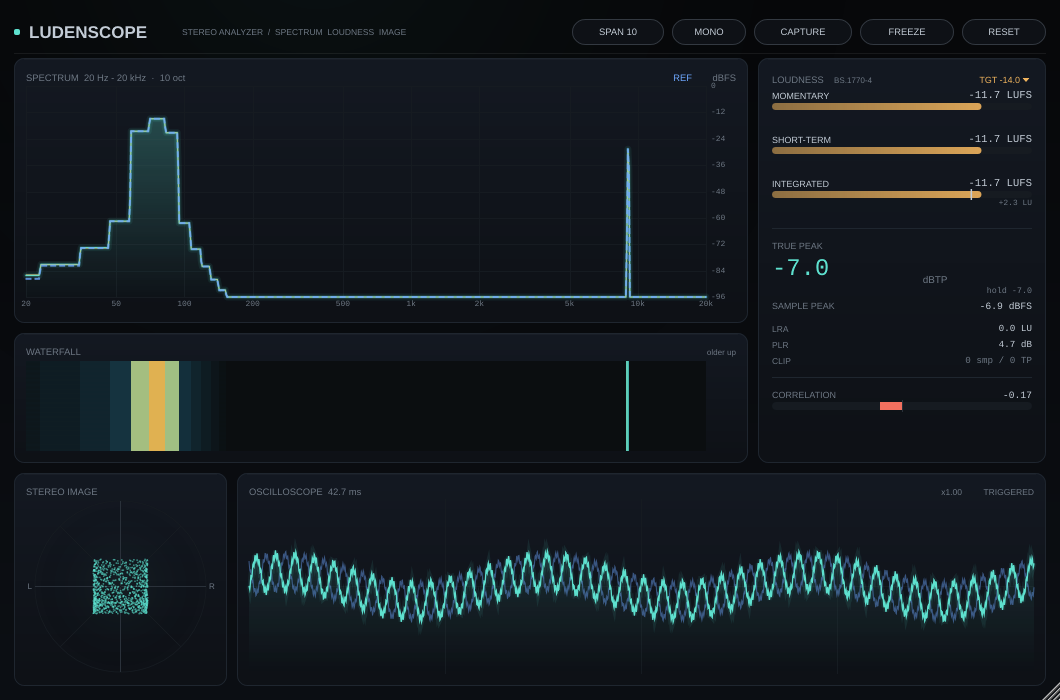
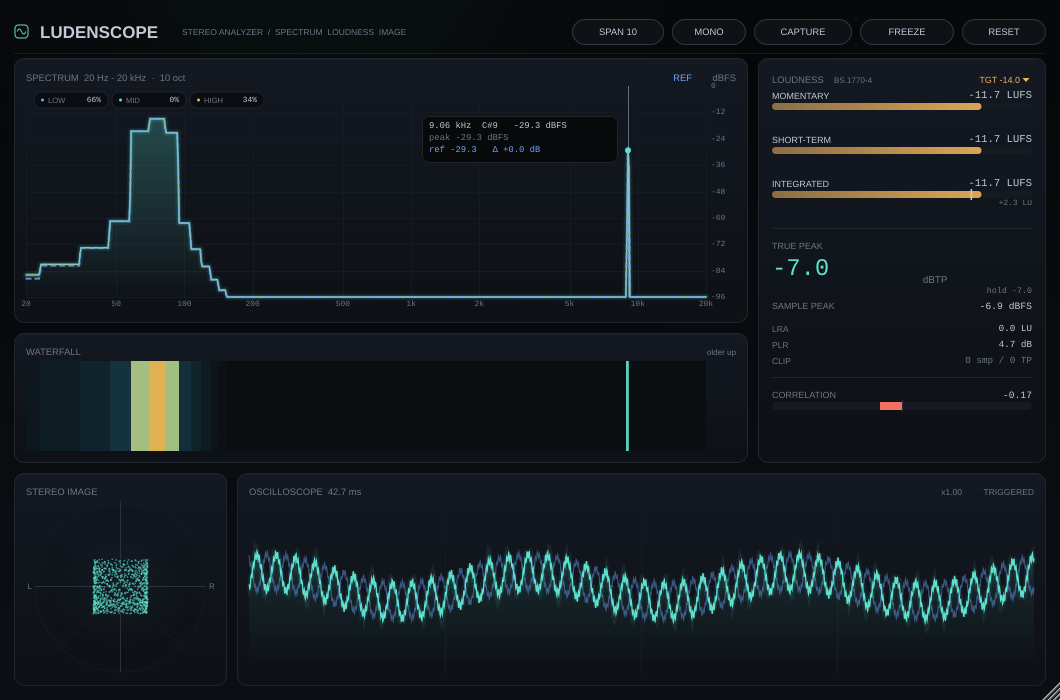
ui: HUD band-balance pills and a custom scope mark
A signature detail of our own rather than a 1:1 copy of the reference:
- three floating pills above the spectrum show the LOW / MID / HIGH energy
  balance (20 Hz - 250 Hz / 250 Hz - 4 kHz / 4 kHz - 20 kHz); each bin is
  weighted by its bandwidth so the percentages are meaningful
- the header mark is a small rounded scope with a sine wave instead of a dot
- the inspector card moved down so the pills and the card never overlap
- snapshot cursor position fixed for the shorter spectrum panel

diff --git a/Source/ui/SpectrumView.h b/Source/ui/SpectrumView.h
@@ -256,6 +256,61 @@ public:
             g.strokePath (dashed, juce::PathStrokeType (1.0f));
         }
 
+        // Signature HUD: rough low / mid / high energy balance.
+        {
+            float bandPower[3] = {};
+
+            for (int i = 0; i < numBins; ++i)
+            {
+                const float hz = minFrequency * std::pow (maxFrequency / minFrequency,
+                                                          (float) i / (float) (numBins - 1));
+                const float power = std::pow (10.0f, levels[(size_t) i] / 10.0f) * hz;
+                const int band = hz < 250.0f ? 0 : (hz < 4000.0f ? 1 : 2);
+
+                bandPower[band] += power;
+            }
+
+            const float total = bandPower[0] + bandPower[1] + bandPower[2];
+
+            if (total > 1.0e-9f)
+            {
+                const char* labels[] = { "LOW", "MID", "HIGH" };
+                const juce::Colour colours[] = { theme::cold, theme::accent, theme::accent2 };
+
+                constexpr float pillWidth = 74.0f;
+                constexpr float pillHeight = 16.0f;
+                constexpr float pillGap = 4.0f;
+
+                float x = plot.getX() + 8.0f;
+                const float y = plot.getY() + 6.0f;
+
+                for (int band = 0; band < 3; ++band)
+                {
+                    const juce::Rectangle<float> pill (x, y, pillWidth, pillHeight);
+
+                    g.setColour (theme::bg.withAlpha (0.62f));
+                    g.fillRoundedRectangle (pill, 7.0f);
+                    g.setColour (theme::panelLine.withAlpha (0.9f));
+                    g.drawRoundedRectangle (pill, 7.0f, 1.0f);
+
+                    g.setColour (colours[band]);
+                    g.fillEllipse (pill.getX() + 7.0f, pill.getCentreY() - 1.5f, 3.0f, 3.0f);
+
+                    g.setFont (theme::labelFont (8.5f));
+                    g.setColour (theme::textDim);
+                    g.drawText (labels[band], pill.withTrimmedLeft (14.0f),
+                                juce::Justification::centredLeft);
+
+                    g.setFont (theme::monoFont (9.0f));
+                    g.setColour (theme::text);
+                    g.drawText (juce::String (juce::roundToInt (100.0f * bandPower[band] / total)) + "%",
+                                pill.withTrimmedRight (7.0f), juce::Justification::centredRight);
+
+                    x += pillWidth + pillGap;
+                }
+            }
+        }
+
         if (cursorActive && plot.contains (cursorPosition))
         {
             const float fraction = juce::jlimit (0.0f, 1.0f,
@@ -296,7 +351,7 @@ public:
             const float rawX = x > plot.getCentreX() ? x - boxWidth - 10.0f : x + 10.0f;
             const float boxX = juce::jlimit (plot.getX() + 4.0f,
                                              plot.getRight() - boxWidth - 4.0f, rawX);
-            const juce::Rectangle<float> box (boxX, plot.getY() + 6.0f, boxWidth, boxHeight);
+            const juce::Rectangle<float> box (boxX, plot.getY() + 30.0f, boxWidth, boxHeight);
 
             g.setColour (theme::bg.withAlpha (0.95f));
             g.fillRoundedRectangle (box, 7.0f);

diff --git a/Source/PluginEditor.cpp b/Source/PluginEditor.cpp
@@ -134,9 +134,26 @@ void LudensScopeEditor::paint (juce::Graphics& g)
 
     auto brand = header.removeFromLeft (168);
 
-    g.setColour (theme::accent);
-    g.fillRoundedRectangle (brand.removeFromLeft (6).withSizeKeepingCentre (6, 6).toFloat(), 2.0f);
-    brand.removeFromLeft (9);
+    auto mark = brand.removeFromLeft (16).withSizeKeepingCentre (13, 13).toFloat();
+
+    g.setColour (theme::accent.withAlpha (0.85f));
+    g.drawRoundedRectangle (mark, 3.5f, 1.2f);
+
+    juce::Path markWave;
+
+    for (int i = 0; i <= 12; ++i)
+    {
+        const float t = (float) i / 12.0f;
+        const float x = mark.getX() + 2.0f + t * (mark.getWidth() - 4.0f);
+        const float y = mark.getCentreY() - std::sin (t * 2.0f * juce::MathConstants<float>::pi) * 2.6f;
+
+        if (i == 0) markWave.startNewSubPath (x, y);
+        else        markWave.lineTo (x, y);
+    }
+
+    g.strokePath (markWave, juce::PathStrokeType (1.1f));
+
+    brand.removeFromLeft (10);
 
     g.setFont (theme::boldFont (19.0f));
     g.setColour (theme::text);

diff --git a/Tests/UiSnapshot.cpp b/Tests/UiSnapshot.cpp
@@ -90,9 +90,9 @@ int main (int argc, char** argv)
     // The editor is never shown on screen, so mark it visible for hit-testing.
     editor->setVisible (true);
 
-    if (auto* target = editor->getComponentAt (628, 300))
+    if (auto* target = editor->getComponentAt (628, 200))
     {
-        const auto local = target->getLocalPoint (editor.get(), juce::Point<int> (628, 300)).toFloat();
+        const auto local = target->getLocalPoint (editor.get(), juce::Point<int> (628, 200)).toFloat();
         const juce::MouseEvent moveEvent (juce::Desktop::getInstance().getMainMouseSource(),
                                           local, juce::ModifierKeys(), 1.0f, 0.0f, 0.0f, 0.0f, 0.0f,
                                           target, target, juce::Time::getCurrentTime(),

diff --git a/README.md b/README.md
@@ -63,7 +63,8 @@ cmake --build --preset dev -j$(nproc)
    следует за выбранным диапазоном. Наведи курсор — под ним частота, нота,
    уровень и peak. Ниже — водопад (история около 4 секунд), его останавливает
    `FREEZE`. Высоту водопада можно менять, перетаскивая разделитель; двойной
-   клик возвращает норму.
+   клик возвращает норму. Вверху спектра — HUD-пилюли с балансом LOW/MID/HIGH
+   в процентах энергии.
 3. LOUDNESS: momentary (400 мс), short-term (3 с), integrated (с гейтингом
    -70 LUFS / -10 LU). Клик по `TGT` в шапке выбирает цель (−14/−16/−18/−23),
    на полосе integrated появляется метка, под ней — отклонение в LU.
